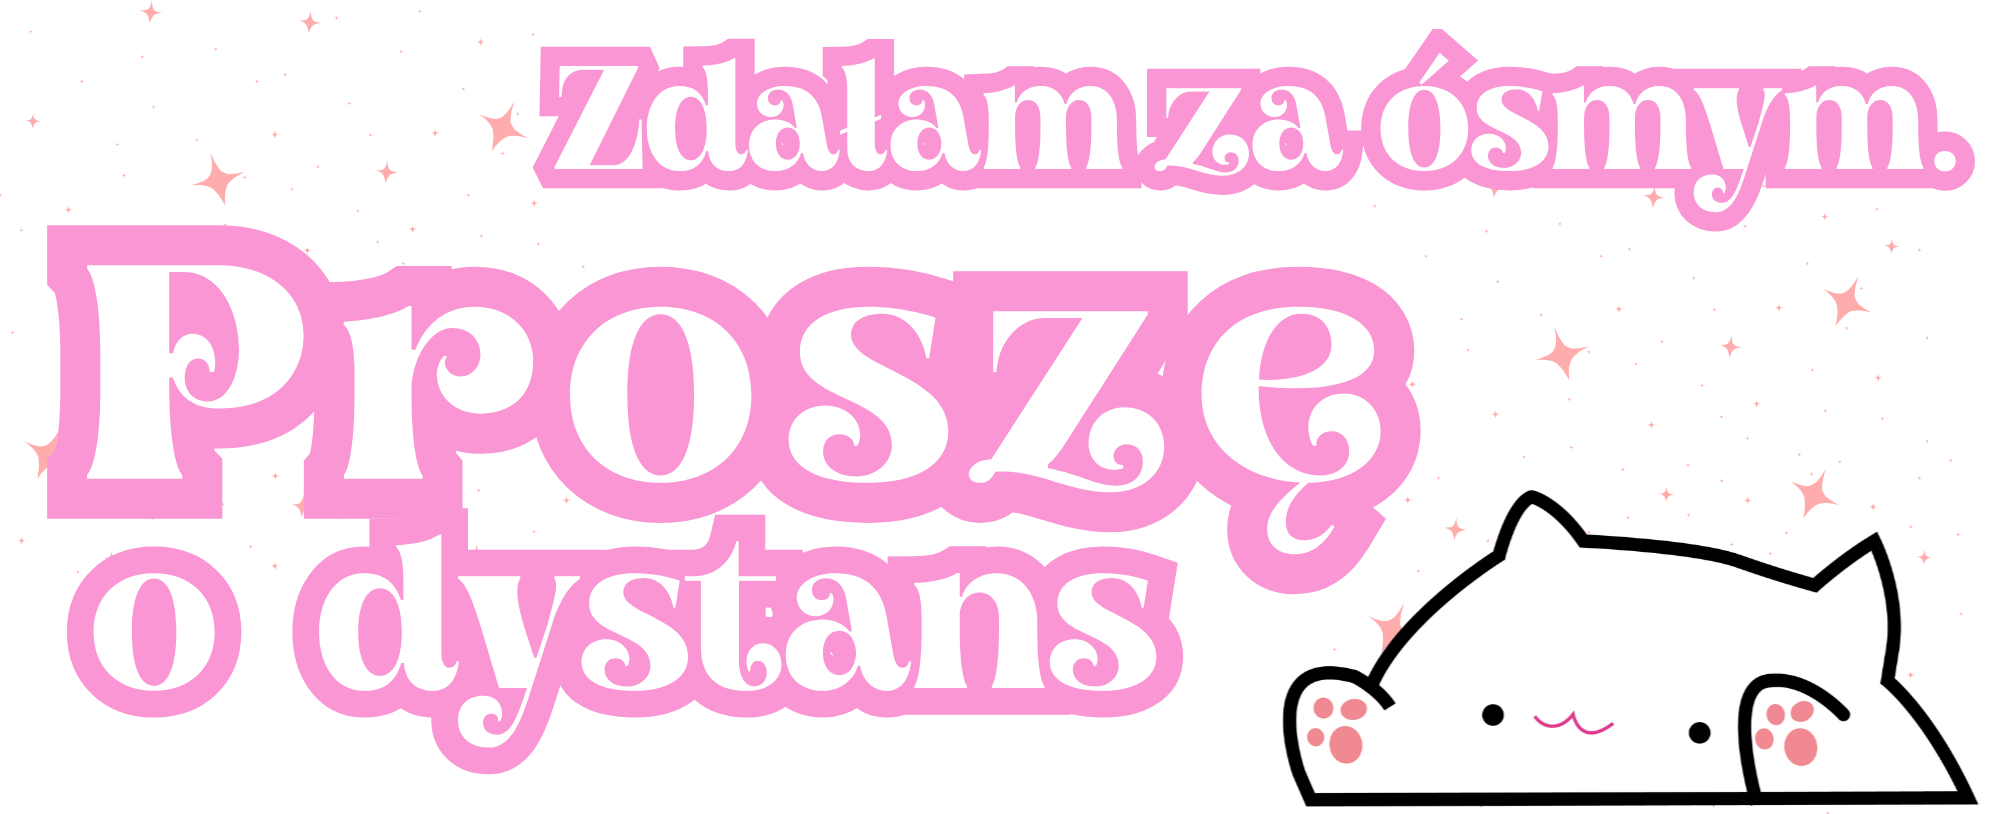
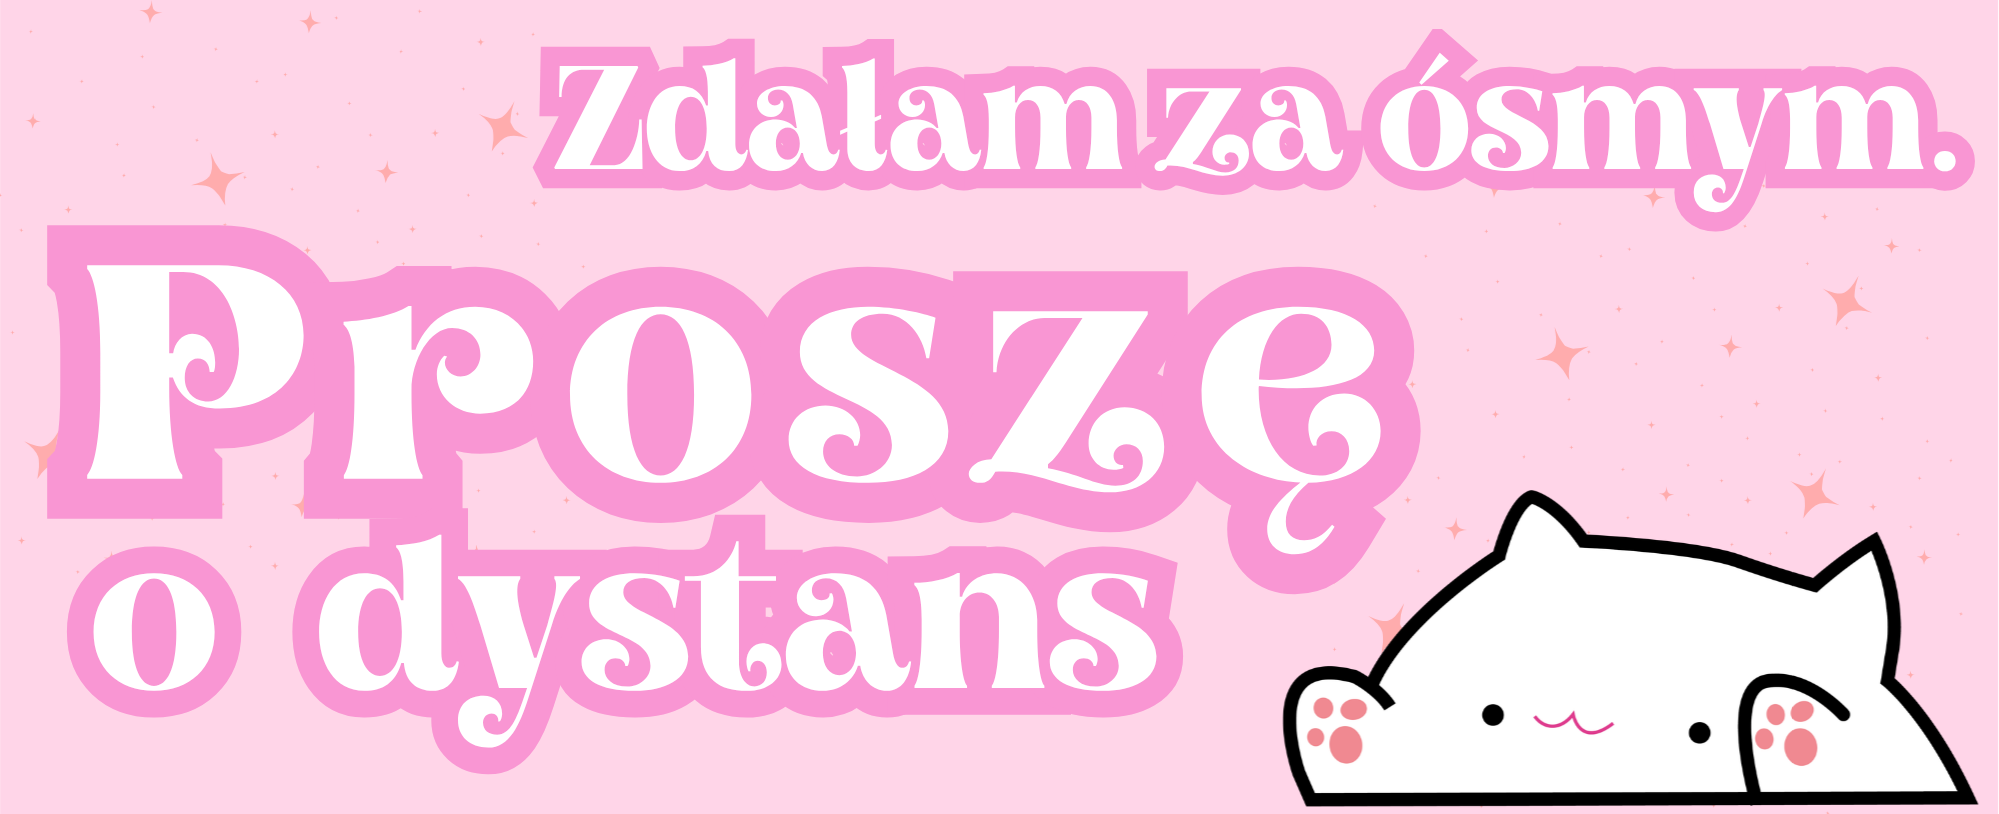
Add files via upload

diff --git a/style.css b/style.css
@@ -122,7 +122,7 @@ body::after {
 
 /* --- KARTA PRODUKTU (GLASSMORPHISM) --- */
 .product-card {
-    background: linear-gradient(145deg, rgba(36, 105, 79, 0.8) 0%, rgba(36,105,79,0.8) 100%);
+    background: linear-gradient(145deg, rgba(71, 194, 147, 0.8) 0%, rgba(72, 226, 167, 0.8) 100%);
     backdrop-filter: blur(10px);
     border: 1px solid var(--border-color);
     border-radius: var(--border-radius);
@@ -141,13 +141,13 @@ body::after {
 .product-card:hover {
     transform: translateY(-8px);
     border-color: rgba(190, 242, 100, 0.4);
-    box-shadow: 0 15px 35px rgba(0,0,0,0.5), 0 0 20px var(--accent-glow);
+    box-shadow: 0 15px 35px rgba(134, 134, 134, 0.5), 0 0 20px var(--accent-glow);
 }
 .product-card:hover::before { transform: scaleX(1); }
 
 .product-image {
     width: 100%; height: 260px;
-    background: rgba(0,0,0,0.5); /* Ciemne tło, by podbić kontrast screenów */
+    background: rgba(134,134,134,0.5); /* Ciemne tło, by podbić kontrast screenów */
     object-fit: contain;
     border-radius: 8px; margin-bottom: 25px; padding: 15px;
 }

diff --git a/api/checkout.js b/api/checkout.js
@@ -49,7 +49,7 @@ export default async function handler(req, res) {
         // Dynamiczny komunikat o wysyłce
         let shippingMessage = '';
         if (shippingType === 'inpost') {
-            shippingMessage = 'WYSYŁKA PACZKOMATEM: Podany niżej adres domowy to jedynie formalność rozliczeniowa. Twoja paczka zostanie wysłana do wybranego Paczkomatu. Podanie numeru telefonu jest niezbędne do odbioru paczki!';
+            shippingMessage = 'JEŚLI WYBRANA ZOSTAŁA WYSYŁKA PACZKOMATEM: Podany wyżej adres to jedynie formalność rozliczeniowa. Twoja paczka zostanie wysłana do wybranego Paczkomatu. Podanie numeru telefonu jest niezbędne do odbioru paczki! Jeśli zamawiasz kurierem do domu to podany wyżej adres jest adresem na który wysłana zostanie paczka';
         } else {
             shippingMessage = 'Wysyłka Kurierem: Zamówienie zostanie wysłane na podany poniżej adres w ciągu max 3 dni roboczych.';
         }